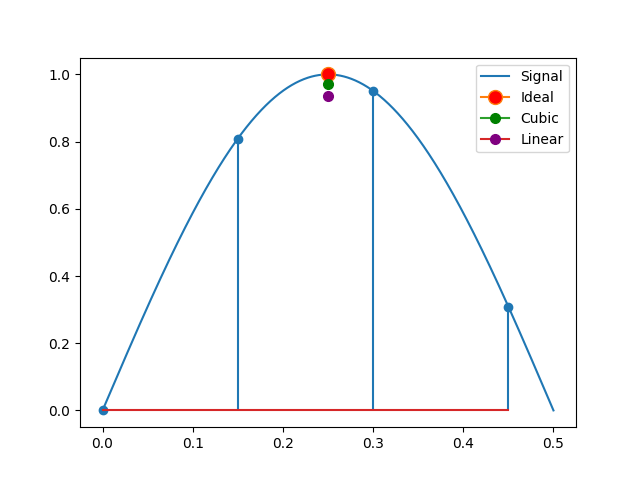
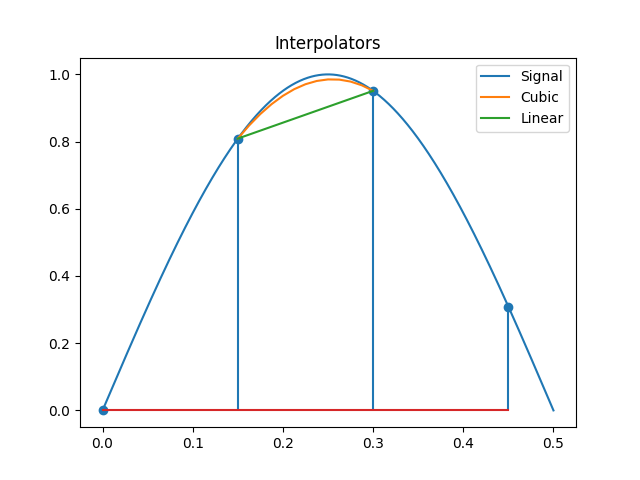
Comms HW7 Interpolator updated and working

diff --git a/Comms/Homework7/tx_rx.py b/Comms/Homework7/tx_rx.py
@@ -1,0 +1,110 @@
+import numpy as np
+from random import random
+import matplotlib.pyplot as plt
+from differentiate import Differentiator
+
+class TX:
+    def __init__(self, num_bits, pulse, upsample_num) -> None:
+        self.bits = [int(random() > 0.5) for _ in range(num_bits)]
+        self.I = []
+        self.Q = []
+        self.I_shaped = []
+        self.Q_shaped = []
+        self.upsample_num = upsample_num
+        self.pulse = pulse
+
+        self.bits_to_IQ()
+        self.I_up = self.upsample(self.I)
+        self.Q_up = self.upsample(self.Q)
+        self.shape_pulses()
+
+    def bits_to_IQ(self):
+        self.I = []
+        self.Q = []
+        for index in range(int(len(self.bits)/2)):
+            self.I.append(-1 if self.bits[index * 2    ] == 0 else 1)
+            self.Q.append(-1 if self.bits[index * 2 + 1] == 0 else 1)
+
+    def upsample(self, signal):
+        sig = np.zeros((len(signal)*self.upsample_num,1))
+        sig[range(0,len(signal)*self.upsample_num,self.upsample_num)] = np.array(signal).reshape(len(signal),1)
+        return sig[:,0]
+    
+    def shape_pulses(self):
+        self.I_shaped = np.convolve(self.I_up, self.pulse)
+        self.Q_shaped = np.convolve(self.Q_up, self.pulse)
+
+    def plot_signal(self, file_name="tx_signal.png", format='png'):
+        plt.figure()
+        plt.subplot(2,1,1)
+        plt.title("Transmitted Signal")
+        plt.ylabel("I")
+        plt.plot(self.I_shaped)
+        plt.subplot(2,1,2)
+        plt.ylabel("Q")
+        plt.plot(self.Q_shaped)
+        plt.savefig(file_name, format=format)
+
+    def get_signal(self):
+        return self.I_shaped, self.Q_shaped
+        
+
+class RX:
+    def __init__(self, I, Q, sample_time, Lp, pulse, diff_filter_len, diff_T) -> None:
+        self.differentiator = Differentiator(diff_T, diff_filter_len)
+        self.max_constellation_val = 1
+        
+        # Matched Filter
+        self.I_matched = self.matched_filter(I, pulse)
+        self.Q_matched = self.matched_filter(Q, pulse)
+
+        # Differentiating and Delaying
+        self.differentiator.differentiate(self.I_matched)
+        self.I_deriv, self.I_delay = self.differentiator.get_result()
+        self.differentiator.differentiate(self.Q_matched)
+        self.Q_deriv, self.Q_delay = self.differentiator.get_result()
+        
+        # Sampling and Normalizing
+        self.I_delay_sample = self.sample_signal(self.I_delay, sample_time, Lp)
+        self.Q_delay_sample = self.sample_signal(self.Q_delay, sample_time, Lp)
+        self.I_delay_normal = self.normalize_amplitude(self.I_delay_sample, self.max_constellation_val)
+        self.Q_delay_normal = self.normalize_amplitude(self.Q_delay_sample, self.max_constellation_val)
+
+        self.I_deriv_sample = self.sample_signal(self.I_deriv, sample_time, Lp)
+        self.Q_deriv_sample = self.sample_signal(self.Q_deriv, sample_time, Lp)
+        self.I_deriv_normal = self.normalize_amplitude(self.I_deriv_sample, self.max_constellation_val)
+        self.Q_deriv_normal = self.normalize_amplitude(self.Q_deriv_sample, self.max_constellation_val)
+
+    def get_sampled_signal(self):
+        return self.I_delay_normal, self.Q_delay_normal
+    
+    def plot_sampled_signal(self, file_name='rx_sampled.png', format='png'):
+        plt.figure()
+        plt.subplot(2,1,1)
+        plt.title("Received Samples")
+        plt.stem(self.I_delay_normal)
+        plt.ylabel("I")
+        plt.subplot(2,1,2)
+        plt.ylabel("Q")
+        plt.stem(self.Q_delay_normal)
+        plt.savefig(file_name, format=format)
+
+    def sample_signal(self, sig, sample_time, Lp=0):
+        sampled = []
+        # for idx in range(Lp,len(sig)-Lp,sample_time):
+        for idx in range(0,len(sig) - Lp, sample_time):
+            sampled.append(sig[idx])
+        return sampled
+
+    def normalize_amplitude(self, signal, max_constellation_val):
+        max_sig = max(signal)
+        return [i * max_constellation_val / max_sig for i in signal]
+
+    def slice_QPSK(self, x, y):
+        a0 = -1 if x < 0 else 1
+        a1 = -1 if y < 0 else 1
+        return a0, a1
+
+    def matched_filter(self, signal, pulse):
+        pulse_reversed = list(reversed(pulse))
+        return np.convolve(signal, pulse_reversed)

diff --git a/Comms/Homework7/interpolator.py b/Comms/Homework7/interpolator.py
@@ -7,6 +7,7 @@ class Interpolator:
         self.interpolated_val = 0
         self.color = 'blue'
         self.name = "None"
+        self.list_of_vals = []
 
     def interpolate(self, mu=None):
         """If no mu is given, mu coefficients will not be updated"""
@@ -26,6 +27,9 @@ class Interpolator:
     def get_result(self):
         return self.interpolated_val
 
+    def store_val(self, val):
+        self.list_of_vals.append(val)
+
 class CubicInterpolator(Interpolator):
     def __init__(self) -> None:
         super().__init__()
@@ -41,7 +45,7 @@ class CubicInterpolator(Interpolator):
         self.name = "Cubic"
 
     def interpolate(self, mu=None):
-        if mu:
+        if mu != None:
             self.calc_mu_coefficients(mu)
         self.interpolated_val = 0
         for index in range(len(self.samples)):
@@ -53,6 +57,7 @@ class CubicInterpolator(Interpolator):
             self.coefficients[i] = 0
             for l in range(len(self.b_coef)):
                 self.coefficients[i] += (mu**self.exponents[l]) * self.b_coef[i][l]
+        self.coefficients = list(reversed(self.coefficients))
 
 class LinearInterpolator(Interpolator):
     def __init__(self) -> None:
@@ -62,13 +67,16 @@ class LinearInterpolator(Interpolator):
         self.name = "Linear"
 
     def calc_mu_coefficients(self, mu):
-        self.coefficients[0] = mu
-        self.coefficients[1] = 1 - mu
+        self.coefficients[0] = 1 - mu
+        self.coefficients[1] = mu
+        print(f"coef[0] = {self.coefficients[0]} coef[1] = {self.coefficients[1]}")
 
     def interpolate(self, mu=None):
-        if mu:
+        if mu != None:
             self.calc_mu_coefficients(mu)
         self.interpolated_val = 0
+        print(f"samples x(mk) = {self.samples[1]}, x(mk+1) = {self.samples[2]}")
+        print(f"mu = {mu}")
         for index in range(len(self.coefficients)):
             self.interpolated_val += self.samples[index + 1] * self.coefficients[index]
         return self.interpolated_val
@@ -80,23 +88,24 @@ if __name__ == '__main__':
     spacing = linspace(0,0.5,1000)
     signal = [sin(2*pi*F0*t) for t in spacing]
 
-    perfect_sample_time = spacing[signal.index(max(signal))]
-    mu = perfect_sample_time - T
+    mus = linspace(0, 1, 13)
+    mu_spacing = [(mu * T) + T for mu in mus]
 
     sample_times = [3*T, 2*T, T, 0]
     interpolators = [CubicInterpolator(), LinearInterpolator()]
     for interpolator in interpolators:
-        interpolator.calc_mu_coefficients(mu)
-
-        for t in sample_times:
-            interpolator.new_sample(sin(2*pi*t))
-        interpolator.interpolate()
+        for mu in mus:
+            for t in sample_times:
+                interpolator.new_sample(sin(2*pi*t))
+            # TODO: This needs to go over 11 points for mu
+            val = interpolator.interpolate(mu)
+            interpolator.store_val(val)
 
     plt.figure()
     plt.plot(spacing, signal)
+    plt.title("Interpolators")
     plt.stem(list(reversed(sample_times)), interpolators[0].samples)
-    plt.plot(perfect_sample_time, 1, marker="o", markersize=10, markerfacecolor="red")
     for interp in interpolators:
-        plt.plot(T + mu, interp.get_result(), marker="o", markersize=7, markerfacecolor=interp.color, markeredgecolor=interp.color)
-    plt.legend(["Signal", "Ideal"] + [interp.name for interp in interpolators])
+        plt.plot(mu_spacing, interp.list_of_vals, markerfacecolor=interp.color, markeredgecolor=interp.color)
+    plt.legend(["Signal"] + [interp.name for interp in interpolators])
     plt.savefig("interpolators.png", format='png')

diff --git a/Comms/Homework7/pulses.py b/Comms/Homework7/pulses.py
@@ -1,0 +1,53 @@
+from math import sqrt, pi, sin, cos, floor
+
+def srrc1(alpha, N, Lp, Ts):
+    """
+    Return a vector of the srrc function
+    alpha = excess bandwidth
+    N = samples per symbol
+    Lp = SRRC truncation length #Currently only supports even numbers
+    Ts = sample time
+    """
+
+    times = []
+    number_of_samples = int(floor(Lp/2)) # and then reflect it on the axis?
+    for idx in range(number_of_samples):
+        t = idx * Ts / N
+        times.append(-t)
+        times.append(t)
+    times.remove(0) # Remove the second zero
+    times.sort()
+
+    answer = []
+    for t in times:
+        answer.append(p_of_nT(Ts, alpha, t))
+
+    while None in answer:
+        index = answer.index(None)
+        value = (answer[index-1] + answer[index+1])/2
+        answer[index] = value
+
+    return answer
+
+
+def p_of_nT(Ts, alpha, t):
+    undefined_t_vals = [0, Ts / (4 * alpha)]
+    try:
+    # if t in undefined_t_vals:
+        # return lhopital(Ts, alpha, t)
+    # else:
+        return (1/sqrt(Ts)) * ((sin(pi*(1 - alpha) * t / Ts) + (4 * alpha * t / Ts) * cos(pi * (1 + alpha) * t / Ts))/(((pi*t)/Ts)*(1 - (4 * alpha * t / Ts)**2)))
+    except ZeroDivisionError:
+        return None
+        # return lhopital(Ts, alpha, t)
+
+def lhopital(Ts, alpha, t):
+    numerator = (pi * (1 - alpha) / Ts) * cos(pi * (1 - alpha) * t / Ts) + (4 * alpha / Ts) * (cos(pi * (1 + alpha) * t / Ts) - (pi * (1 + alpha) * t / Ts) * sin(pi * (1 + alpha) * t / Ts))
+    denominator = pi / sqrt(Ts) - (32 * pi * t / (Ts * sqrt(Ts)))
+    return numerator / denominator
+
+def NRZ(Ts):
+    return [Ts]
+
+def MANCH(Ts, Lp=60):
+    return [-Ts, Ts] + [0] * Lp

diff --git a/Comms/Homework7/symbol_timing.py b/Comms/Homework7/symbol_timing.py
@@ -1,0 +1,34 @@
+from numpy import fft, convolve, sin, cos, pi
+from differentiate import Differentiator
+import matplotlib.pyplot as plt
+from pulses import *
+from tx_rx import *
+from random import random
+
+K = 1
+N = 100
+Lp = 100
+num_bits = 10
+Ts = 1
+alpha = 1
+pulse = srrc1(alpha, N, Lp, Ts)
+
+########################
+# Transmit
+########################
+
+tx = TX(num_bits, pulse, N)
+tx.plot_signal()
+I_sent, Q_sent = tx.get_signal()
+
+
+########################
+# Receive
+########################
+
+diff_filter_len = 11
+diff_T = 1
+
+rx = RX(I_sent, Q_sent, 25, Lp, pulse, diff_filter_len, diff_T)
+rx.plot_sampled_signal()
+

diff --git a/Comms/Homework7/differentiate.py b/Comms/Homework7/differentiate.py
@@ -25,11 +25,14 @@ class Differentiator:
     
     def plot_filter(self):
         plt.figure()
+        plt.subplot(2,1,1)
+        plt.title("Derivitive and Delay Filter")
+        plt.ylabel("Derivitive")
         plt.stem(self.indeces, self.deriv_filter)
-        plt.savefig(f"deriv_filter.png", format='png')
-        plt.figure()
+        plt.subplot(2,1,2)
+        plt.ylabel("Delay")
         plt.stem(self.indeces, self.delay_filter)
-        plt.savefig(f"delayed_filter.png", format='png')
+        plt.savefig(f"diff_filters.png", format='png')
 
     def get_result(self):
         return self.deriv, self.delayed
